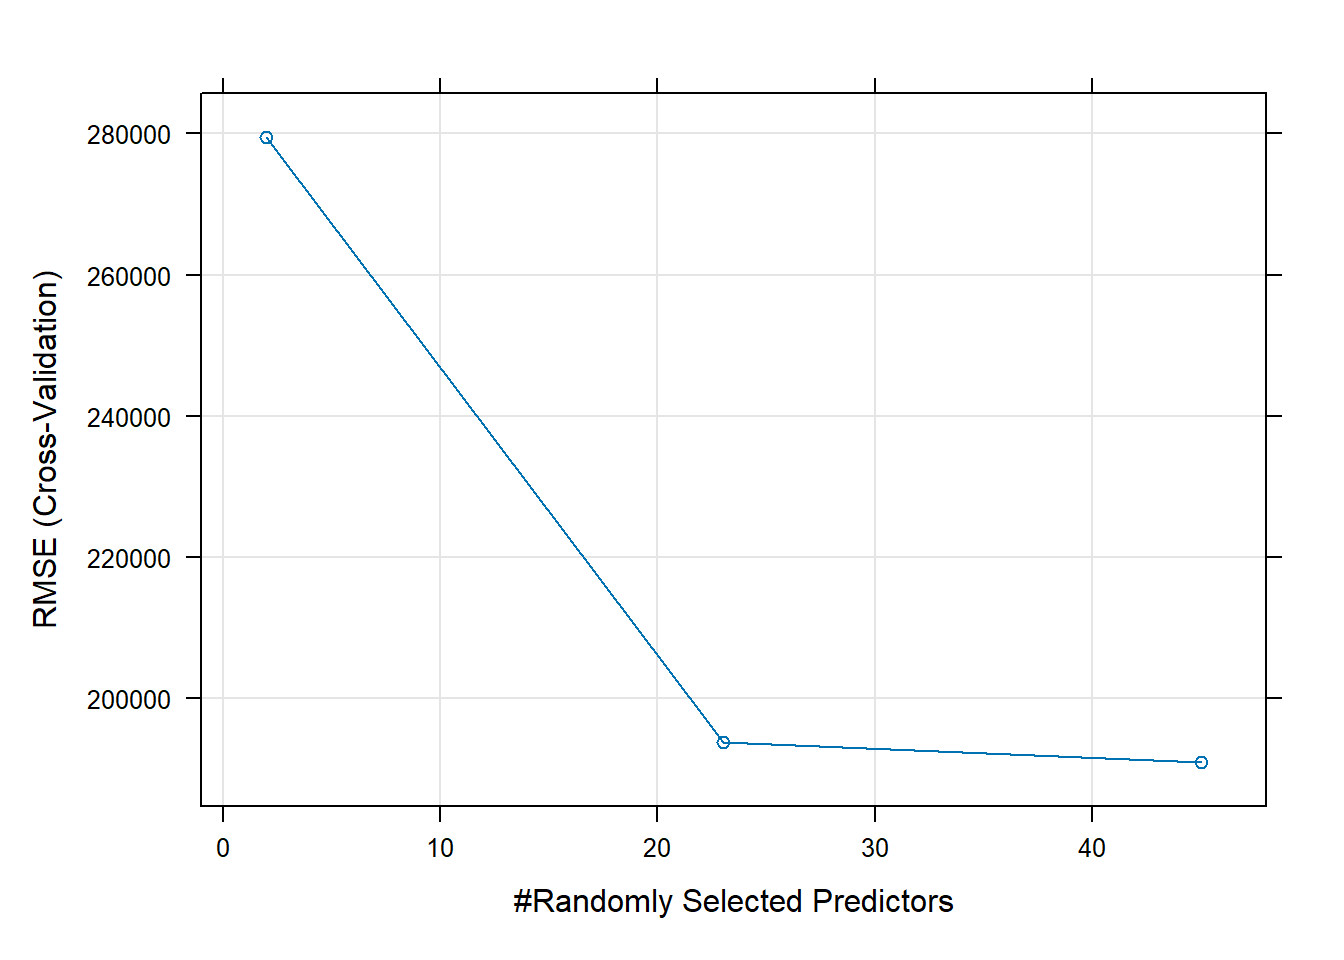
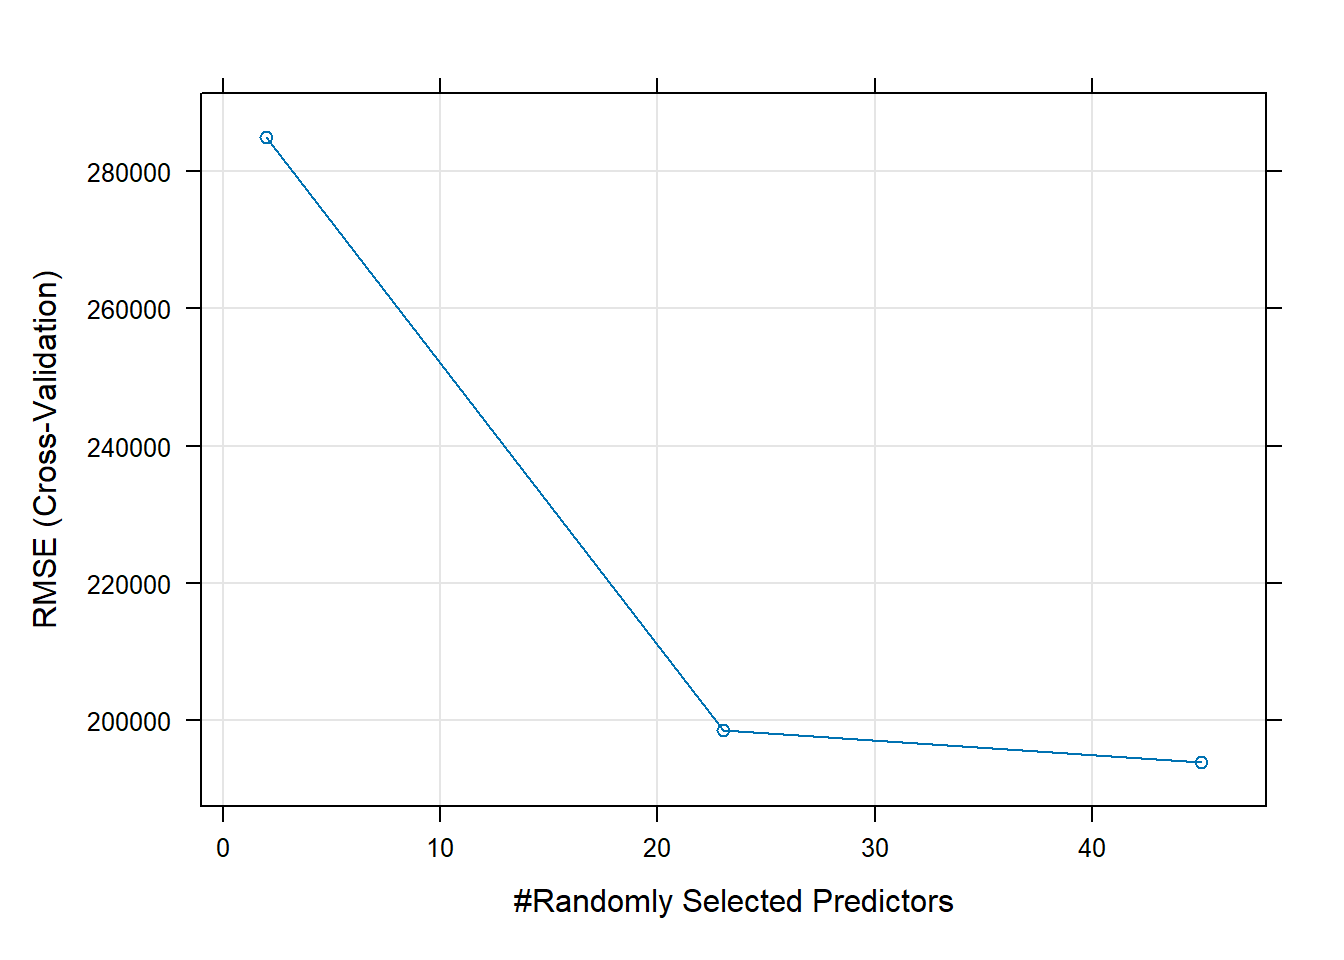
24

diff --git a/docs/labs/lab9.html b/docs/labs/lab9.html
@@ -365,7 +365,7 @@ The final value used for the model was cp = 0.005487841.</code></pre>
 <p>Why doing this? A single decision tree makes hard, deterministic splits, but if many trees split at slightly different places, the combined decisions become smoother and more robust. For example, instead of a sudden jump in predicted price from $2M to $3M for a small difference in living area, the ensemble produces a gradual and more realistic transition.</p>
 <p>Train a random forest model by using <code>method = "rf"</code>.</p>
 <div class="cell">
-<div class="sourceCode cell-code" id="cb14"><pre class="sourceCode r code-with-copy"><code class="sourceCode r"><span id="cb14-1"><a href="#cb14-1" aria-hidden="true" tabindex="-1"></a><span class="fu">set.seed</span>(<span class="dv">42</span>)</span>
+<div class="sourceCode cell-code" id="cb14"><pre class="sourceCode r code-with-copy"><code class="sourceCode r"><span id="cb14-1"><a href="#cb14-1" aria-hidden="true" tabindex="-1"></a><span class="fu">set.seed</span>(<span class="dv">24</span>)</span>
 <span id="cb14-2"><a href="#cb14-2" aria-hidden="true" tabindex="-1"></a>rf_model <span class="ot">&lt;-</span> <span class="fu">train</span>(</span>
 <span id="cb14-3"><a href="#cb14-3" aria-hidden="true" tabindex="-1"></a>  SalePrice <span class="sc">~</span> .,        </span>
 <span id="cb14-4"><a href="#cb14-4" aria-hidden="true" tabindex="-1"></a>  <span class="at">data =</span> train_data,</span>
@@ -378,7 +378,7 @@ The final value used for the model was cp = 0.005487841.</code></pre>
 <span id="cb14-11"><a href="#cb14-11" aria-hidden="true" tabindex="-1"></a>rf_result <span class="ot">&lt;-</span> <span class="fu">RMSE</span>(pred, test_data<span class="sc">$</span>SalePrice)</span>
 <span id="cb14-12"><a href="#cb14-12" aria-hidden="true" tabindex="-1"></a>rf_result</span></code><button title="Copy to Clipboard" class="code-copy-button"><i class="bi"></i></button></pre></div>
 <div class="cell-output cell-output-stdout">
-<pre><code>[1] 194364.5</code></pre>
+<pre><code>[1] 193295.8</code></pre>
 </div>
 </div>
 <p>We can see that the random forest produces a better-performing model than a single decision tree. With the inclusion of the spatial variable, its performance also improves compared with last week’s results.</p>
@@ -424,13 +424,13 @@ The final value used for the model was cp = 0.005487841.</code></pre>
 
 No pre-processing
 Resampling: Cross-Validated (5 fold) 
-Summary of sample sizes: 829, 828, 830, 830, 827 
+Summary of sample sizes: 828, 829, 829, 829, 829 
 Resampling results across tuning parameters:
 
   mtry  RMSE      Rsquared   MAE     
-   2    279536.2  0.7916184  158033.6
-  23    193727.8  0.8413059  108460.5
-  45    190911.5  0.8395604  108220.2
+   2    285021.8  0.7119633  160692.6
+  23    198637.6  0.8009637  108438.2
+  45    193861.0  0.8032423  108650.4
 
 RMSE was used to select the optimal model using the smallest value.
 The final value used for the model was mtry = 45.</code></pre>
@@ -474,7 +474,7 @@ The final value used for the model was mtry = 45.</code></pre>
 </tr>
 <tr class="odd">
 <td>Random Forest (with location variable)</td>
-<td>194,364.5</td>
+<td>193,295.8</td>
 </tr>
 </tbody>
 </table>
